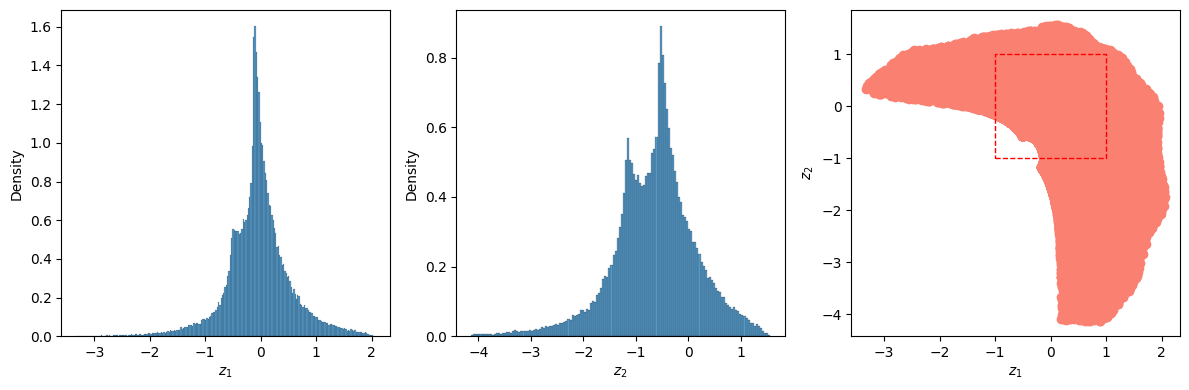
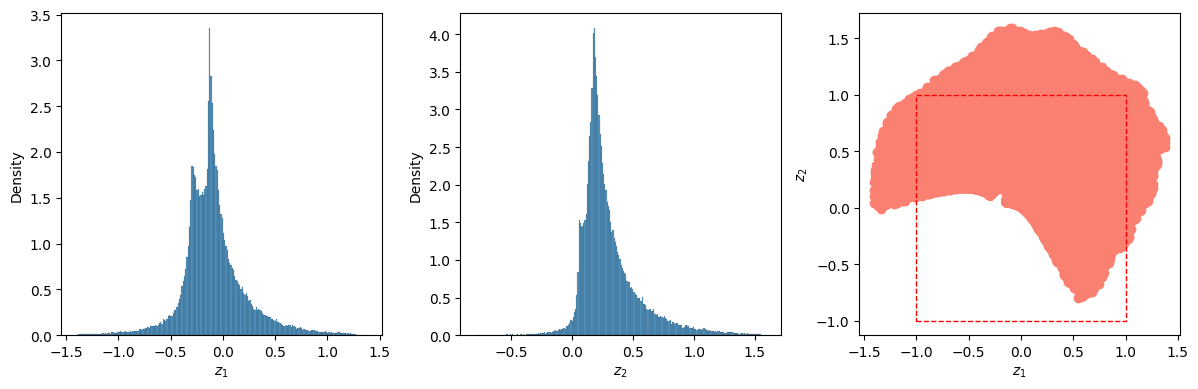
better content

diff --git a/_posts/2021-08-01-normal-distribution.md b/_posts/2021-08-01-normal-distribution.md
@@ -7,26 +7,29 @@ header:
 excerpt: "Autoencoders applied to mathematical functions."
 ---
 
-An *autoencoder* is a type of neural network that can learn efficient representations of data. The learning is unsupervised -- they try to reconstruct the inputs from the inputs themselves.
+An [autoencoder](https://en.wikipedia.org/wiki/Autoencoder) is a type of neural network that is trained to attempt to copy its inputs into its outputs. Given an input $X \in \mathbb{R}^n$ and two functions $f: \mathbb{R}^n \rightarrow \mathbb{R}^m$ and $g: \mathbb{R}^m \rightarrow \mathbb{R}^n$, they compute $\hat{X} = g(f(X))$ and aim for $Y \approx X$ by making a certain loss function $\mathcal{L}(X, \hat{X})$ as small as possible. We need $m \ll n$, as for $m \ge n$ one can simply take identity functions and perform a trivial transformation. 
 
-In its simplest version, it is composed by two neural networks stacked on the top of each other: an *encoder* which compresses the data to a smaller dimensional encoding, and a *decoder*, which tries to reconstruct the original data from this encoding.
+The function $f$ is called the *encoder* and $g$ the *decoder$, with $Z = f(X)$ the *code* in which a vector $X$ is transformed. The hope is that training will result in the codes $Z$ taking on useful properties, for example removing the noise on $X$ or perform a dimensionality reduction. The vectors $Z$ are often called the *latent* vectors.
 
-Most of the tutorials on autoencoders take images. Indeed, images are a very important application of generative machine learning models; however, here we will work with the reconstruction of a well-known mathematical function: the probability density function of the [normal distribution](https://en.wikipedia.org/wiki/Normal_distribution),
+The simplest kind of autoencoder has one layer, linear activations, and squared error loss,
 
 $$
-Φ(x; μ, σ) = \frac{1}{\sqrt{2 \pi} \sigma} \exp \left(-\frac{1}{2}\left( \frac{x - \mu}{\sigma} \right)^2 \right).
+\mathcal{L}(X, \hat{X}) = \|X - \hat{X}\|^2.
 $$
 
-This function has two parameters, $\mu$ and $\sigma$, apart from the input variable $x$. What we do is to create a grid of points $[x_1, x_2, \ldots, x_n]$ on which we will sample $Φ(x; μ, σ)$ for given values of $\mu$ and $\sigma$; this vector of $n$ points is the quantity that the autoencoder will operator upon. 
-Since there are only two parameters we should be able to capture it with an autoencoder with two latent variables, meaning that the encoder will project the $n$ points into 2 latent variables, while the decoder will do the opposite, moving from the two laten variables to $n$ points, idelly very close to the input ones.
+This computes $\hat{x} = U V X$, which is a linear function; if $m \ge n$ we can shoose $U$ and $V$ such that $U V = I$, which is not very interesting. If instead $m \ll n$ the encoder is reducing the dimensionality; the output $\hat{X}$ must lie in the column space of $U$. This is equivalent to [principal component analysis](https://en.wikipedia.org/wiki/Principal_component_analysis), or PCA.
 
-Our procedure is the following: 
-- the parameters $\mu$ and $\sigma$ are sampled, the first in $\mathcal{U}(-3, 3)$ and the second
-in $\mathcal{U}(0.5, 3)$;
-- for given values of $\mu$ and $\sigma$, we compute the values $y(x)$ on a (fixed) grid of points;
-- we train an autoencoder and check the quality of the fit.
+The idea of autoencoders is to go a step further and add nonlinearities to project the data not on a subspace, but on a nonlinear manifold. As such, they are more powerful than PCA for a given dimensionality.
 
-The following packages were used:
+In this article we look at autoencoders as tools for dimensionality reduction. Most of the tutorials on autoencoders do so on images, which are a very important application of generative machine learning models. Here, instead, we will work with mathematical functions and in particular with the well-known the probability density function of the [normal distribution](https://en.wikipedia.org/wiki/Normal_distribution),
+
+$$
+\varphi(x; μ, σ) = \frac{1}{\sigma \sqrt{2 \pi}} \exp \left(-\frac{1}{2}\left( \frac{x - \mu}{\sigma} \right)^2 \right).
+$$
+
+This function has two parameters, $\mu$ and $\sigma$, apart from the input variable $x$. What we do is to create a grid of points, fixed and identical for all values of the parameters. $[x_1, x_2, \ldots, x_n]$ on which we will sample $\varphi(x; μ, σ)$ for given values of $\mu$ and $\sigma$; this vector of $n$ points is the quantity that the autoencoder will operator upon. Ideally the autoencoder should learn how to represent this function on the provided grid.
+
+We start by creating the environment for the code:
 
 ```powershell
 conda create --name normal-distribution python==3.9 --no-default-packages -y
@@ -41,7 +44,7 @@ import matplotlib.pyplot as plt
 import numpy as np
 from scipy.optimize import minimize
 import seaborn as sns
-import torch; torch.manual_seed(0)
+import torch
 import torch.nn as nn
 import torch.nn.functional as F
 import torch.utils
@@ -49,7 +52,7 @@ from torch.utils.data import Dataset, DataLoader
 import torch.distributions
 ```
 
-We specify a `device` such that we can use CPUs, GPUs, or anything else supported by PyTorch.
+We specify a `device` such that we can use CPUs, GPUs, or anything else supported by PyTorch. The CPU will suffice given the small size of what we are doing.
 
 
 ```python
@@ -60,7 +63,7 @@ print(f"Using device {device}.")
     Using device cpu.
     
 
-The first phase is the generation of the training dataset. The dataset is composed by a vector sampling out target function, on a predefined grid, for some values of $\mu$ and $\sigma$ that are given by a random number generator.
+The first phase is the generation of the training dataset. The dataset is composed by a vector sampling out target function, on a predefined grid, for some values of $\mu$ and $\sigma$ that are given by a random number generator. We have to limit ourselves to a range of the parameters -- we assume $-3 \le \mu \le 3$ and $1/2 \le \sigma \le 3$, while the grid is a discretization of the $[-5, 5]$ interval.
 
 
 ```python
@@ -68,25 +71,22 @@ uniform_dist_μ = torch.distributions.uniform.Uniform(-3.0, 3.0)
 uniform_dist_σ = torch.distributions.uniform.Uniform(0.5, 3.0)
 ```
 
+We can easily generate as many entries for the training dataset as we want; 100'000 seems a reasonable choice and provides good results. The function $\varphi(x)$ is defined in `target_func`; a simple for loop fills the input dataset `X`.
+
 
 ```python
 num_inputs = 100_000
 num_points = 1_000
-```
 
-
-```python
 grid = torch.linspace(-5.0, 5.0, num_points)
-```
 
-
-```python
 def target_func(x, μ, σ):
     return 1 / np.sqrt(2 * np.pi) / σ * np.exp(-0.5 * (x - μ)**2 /  σ**2)
 ```
 
 
 ```python
+torch.manual_seed(0)
 X, Y = [], []
 for _ in range(num_inputs):
     μ = uniform_dist_μ.sample()
@@ -117,55 +117,67 @@ plt.ylabel('Φ(x)');
     
 
 
-The architecture of the encoder is quite simple: a classical sequential network with four layers and `tanh` activation function. The decoder is symmetric and quite simple as well. As we will see, this suffices for our goals so we won't try more complicated architectures.
+The architecture of the encoder is quite simple: a classical sequential network with four layers and `tanh` activation function.
 
 
 ```python
 class Encoder(nn.Module):
+
     def __init__(self, latent_dims, num_hidden):
-        super(Encoder, self).__init__()
+        super().__init__()
         self.linear1 = nn.Linear(num_points, num_hidden)
         self.linear2 = nn.Linear(num_hidden, num_hidden)
         self.linear3 = nn.Linear(num_hidden, num_hidden)
         self.linear4 = nn.Linear(num_hidden, latent_dims)
 
     def forward(self, x):
-        x = F.tanh(self.linear1(x))
-        x = F.tanh(self.linear2(x))
-        x = F.tanh(self.linear3(x))
+        x = torch.tanh(self.linear1(x))
+        x = torch.tanh(self.linear2(x))
+        x = torch.tanh(self.linear3(x))
         return self.linear4(x)
 ```
+
+ The decoder is symmetric and quite simple as well. As we will see, this suffices for our goals so we won't try more complicated architectures. Since the output is a probability density, we can use RELU to remove negative values.
 
 
 ```python
 class Decoder(nn.Module):
+
     def __init__(self, latent_dims, num_hidden):
-        super(Decoder, self).__init__()
+        super().__init__()
         self.linear1 = nn.Linear(latent_dims, num_hidden)
         self.linear2 = nn.Linear(num_hidden, num_hidden)
         self.linear3 = nn.Linear(num_hidden, num_hidden)
         self.linear4 = nn.Linear(num_hidden, num_points)
 
     def forward(self, z):
-        z = F.tanh(self.linear1(z))
-        z = F.tanh(self.linear2(z))
-        z = F.tanh(self.linear3(z))
-        return self.linear4(z)
+        z = torch.tanh(self.linear1(z))
+        z = torch.tanh(self.linear2(z))
+        z = torch.tanh(self.linear3(z))
+        return torch.relu(self.linear4(z))
 ```
 
-The autoencoder composed the encoder and the decoder, passing the input data through the former and then the latter.
+The autoencoder simply composes the encoder and the decoder, passing the input data through the former and then the latter.
 
 
 ```python
 class Autoencoder(nn.Module):
+
     def __init__(self, latent_dims, num_hidden):
-        super(Autoencoder, self).__init__()
+        super().__init__()
         self.encoder = Encoder(latent_dims, num_hidden)
         self.decoder = Decoder(latent_dims, num_hidden)
 
     def forward(self, x):
         z = self.encoder(x)
-        return self.decoder(z)
+        x_hat = self.decoder(z)
+        return x_hat
+
+
+def init_weights(m):
+    if isinstance(m, nn.Linear):
+        torch.nn.init.xavier_uniform_(m.weight)
+        m.bias.data.fill_(0.01)
 ```
 
 We are almost ready to do the training. A small wrapper to the `Dataset` class is used such that we can define a `DataLoader` and specify the batch size (here, 256) and shuffling.
@@ -173,6 +185,7 @@ We are almost ready to do the training. A small wrapper to the `Dataset` class i
 
 ```python
 class FuncDataset(Dataset):
+    
     def __init__(self, X):
         self.X = X
 
@@ -201,12 +214,11 @@ def train(autoencoder, data_loader, epochs, lr, gamma, print_every):
             x = x.to(device)  # to GPU if necessary
             optimizer.zero_grad()
             x_hat = autoencoder(x)
-            loss = ((x - x_hat)**2).sum()
+            loss = F.mse_loss(x, x_hat)
             loss.backward()
             optimizer.step()
             total_loss += loss.item()
         scheduler.step()
-        total_loss /= len(data_loader)
         if epoch % print_every == 0:
             print(f"Epoch: {epoch:3d}, lr: {last_lr[0]:.4e}, avg loss: {total_loss:.4f}")
         history.append(total_loss)
@@ -215,50 +227,41 @@ def train(autoencoder, data_loader, epochs, lr, gamma, print_every):
 
 
 ```python
+torch.manual_seed(0)
 latent_dims = 2
 autoencoder = Autoencoder(latent_dims=latent_dims, num_hidden=16).to(device)
-```
-
-
-```python
+autoencoder.apply(init_weights)
 history = train(autoencoder, data_loader, epochs=200, lr=1e-3, gamma=0.98, print_every=10)
 ```
 
-    Epoch:  10, lr: 8.3375e-04, avg loss: 37.3808
-    Epoch:  20, lr: 6.8123e-04, avg loss: 11.0866
-    Epoch:  30, lr: 5.5662e-04, avg loss: 6.4911
-    Epoch:  40, lr: 4.5480e-04, avg loss: 5.0347
-    Epoch:  50, lr: 3.7160e-04, avg loss: 4.1864
-    Epoch:  60, lr: 3.0363e-04, avg loss: 3.6390
-    Epoch:  70, lr: 2.4808e-04, avg loss: 3.2396
-    Epoch:  80, lr: 2.0270e-04, avg loss: 2.9316
-    Epoch:  90, lr: 1.6562e-04, avg loss: 2.6938
-    Epoch: 100, lr: 1.3533e-04, avg loss: 2.5059
-    Epoch: 110, lr: 1.1057e-04, avg loss: 2.3567
-    Epoch: 120, lr: 9.0345e-05, avg loss: 2.2413
-    Epoch: 130, lr: 7.3818e-05, avg loss: 2.1486
-    Epoch: 140, lr: 6.0315e-05, avg loss: 2.0738
-    Epoch: 150, lr: 4.9282e-05, avg loss: 2.0130
-    Epoch: 160, lr: 4.0267e-05, avg loss: 1.9625
-    Epoch: 170, lr: 3.2901e-05, avg loss: 1.9240
-    Epoch: 180, lr: 2.6882e-05, avg loss: 1.8926
-    Epoch: 190, lr: 2.1965e-05, avg loss: 1.8665
-    Epoch: 200, lr: 1.7947e-05, avg loss: 1.8446
+    Epoch:  10, lr: 8.3375e-04, avg loss: 2978.8102
+    Epoch:  20, lr: 6.8123e-04, avg loss: 1596.3543
+    Epoch:  30, lr: 5.5662e-04, avg loss: 1100.5824
+    Epoch:  40, lr: 4.5480e-04, avg loss: 905.0095
+    Epoch:  50, lr: 3.7160e-04, avg loss: 779.6560
+    Epoch:  60, lr: 3.0363e-04, avg loss: 696.5421
+    Epoch:  70, lr: 2.4808e-04, avg loss: 641.5026
+    Epoch:  80, lr: 2.0270e-04, avg loss: 600.6263
+    Epoch:  90, lr: 1.6562e-04, avg loss: 572.4385
+    Epoch: 100, lr: 1.3533e-04, avg loss: 546.6655
+    Epoch: 110, lr: 1.1057e-04, avg loss: 528.8666
+    Epoch: 120, lr: 9.0345e-05, avg loss: 513.7626
+    Epoch: 130, lr: 7.3818e-05, avg loss: 501.3278
+    Epoch: 140, lr: 6.0315e-05, avg loss: 491.5679
+    Epoch: 150, lr: 4.9282e-05, avg loss: 483.1427
+    Epoch: 160, lr: 4.0267e-05, avg loss: 476.8771
+    Epoch: 170, lr: 3.2901e-05, avg loss: 471.3284
+    Epoch: 180, lr: 2.6882e-05, avg loss: 466.7106
+    Epoch: 190, lr: 2.1965e-05, avg loss: 462.8381
+    Epoch: 200, lr: 1.7947e-05, avg loss: 459.6428
     
 
 
 ```python
 plt.semilogy(history)
 plt.xlabel('Epoch')
-plt.ylabel('Loss')
+plt.ylabel('Loss');
 ```
-
-
-
-
-    [<matplotlib.lines.Line2D at 0x24b75f05dc0>]
-
-
 
 
     
@@ -292,7 +295,28 @@ fig.tight_layout()
     
 
 
-It is now time to verify the quality of our decoder. We define new random values for $\mu$ and $\sigma$ and look for the latent variables that provide the best fit. The search is performed using SciPy's `minimize` and is extremely fast.
+We can also plot the reconstructed function over a few points in the $[-1, 1] \times [-1, 1]$ square of the picture above. We do this on a 10 by 10 grid, showing the result of the decoder for several values of $z_1$ and $z_2$ in the square region. In the zone that was not well covered in the trainig phase we expect poor results, and indeed the results aren't very meaningful there; otherise we can see our distributions changing with the two parameters. 
+
+
+```python
+n = 10
+fig, axes = plt.subplots(nrows=n, ncols=n, figsize=(8, 8), sharex=True, sharey=True)
+for i, c_1 in enumerate(np.linspace(-1, 1, n)):
+    for j, c_2 in enumerate(np.linspace(-1, 1, n)):
+        y = autoencoder.decoder(torch.FloatTensor([c_1, c_2]).to(device)).detach().cpu()
+        axes[n - 1 - j, i].plot(grid, y)
+        axes[n - 1 - j, i].axis('off')
+        axes[n - 1 - j, i].set_title(f'{c_1:.2f},{c_2:.2f}', fontsize=6)
+fig.tight_layout()
+```
+
+
+    
+![png](/assets/images/normal-distribution/normal-distribution-4.png)
+    
+
+
+Another thing that can be easily done is to search for the latent values that fit a given $X$. To that aim, we define new random values for $\mu$ and $\sigma$ and look for the latent variables that provide the best fit. The search is performed using SciPy's `minimize` and is extremely fast.
 
 
 ```python
@@ -313,18 +337,18 @@ res = minimize(func, [0.0, 0.0], method='Nelder-Mead')
 print(res)
 ```
 
-    Params for the test: μ=2.3721, σ=1.6699
+    Params for the test: μ=0.2404, σ=2.1482
     
            message: Optimization terminated successfully.
            success: True
             status: 0
-               fun: 0.04667074233293533
-                 x: [ 1.614e-01 -1.525e+00]
-               nit: 68
-              nfev: 133
-     final_simplex: (array([[ 1.614e-01, -1.525e+00],
-                           [ 1.614e-01, -1.525e+00],
-                           [ 1.614e-01, -1.525e+00]]), array([ 4.667e-02,  4.667e-02,  4.667e-02]))
+               fun: 0.040829580277204514
+                 x: [-1.353e-01  2.750e-01]
+               nit: 56
+              nfev: 106
+     final_simplex: (array([[-1.353e-01,  2.750e-01],
+                           [-1.353e-01,  2.749e-01],
+                           [-1.353e-01,  2.749e-01]]), array([ 4.083e-02,  4.083e-02,  4.083e-02]))
     
 
 Plotting the results shows quite a good agreement between the exact solution and the one produced by the decoder; increasing the size of the training dataset or the number of epoch would increase the quality.
@@ -333,7 +357,7 @@ Plotting the results shows quite a good agreement between the exact solution and
 ```python
 X_pred = autoencoder.decoder(torch.FloatTensor(res.x).to(device)).cpu().detach().numpy()
 fig, (ax0, ax1) = plt.subplots(figsize=(10, 4), ncols=2)
-ax0.plot(grid, X_target, label=f'α={α.item():.4f}, β={β.item():.4f}')
+ax0.plot(grid, X_target, label=f'μ={μ.item():.4f}, σ={σ.item():.4f}')
 ax0.plot(grid, X_pred, label=f'$z_1={res.x[0].item():.4f}, z_2={res.x[1].item():.4f}$')
 ax0.legend(loc='upper left')
 ax1.plot(grid, X_target - X_pred)
@@ -348,27 +372,8 @@ fig.tight_layout()
 
 
     
-![png](/assets/images/normal-distribution/normal-distribution-4.png)
-    
-
-
-And finally a nice example of what each latent variable represents by plotting, on a 10 by 10 grid, the result of the decoder for several values of $z_1$ and $z_2$, both ranging from -1 to 1. As we discussed above, the bottom left corner was not covered during the training and indeed the results aren't very meaningful; otherise we can see our distributions changing with the two parameters. 
-
-
-```python
-n = 10
-fig, axes = plt.subplots(nrows=n, ncols=n, figsize=(8, 8), sharex=True, sharey=True)
-for i, c_1 in enumerate(np.linspace(-1, 1, n)):
-    for j, c_2 in enumerate(np.linspace(-1, 1, n)):
-        y = autoencoder.decoder(torch.FloatTensor([c_1, c_2]).to(device)).detach().cpu()
-        axes[n - 1 - j, i].plot(grid, y)
-        axes[n - 1 - j, i].axis('off')
-        axes[n - 1 - j, i].set_title(f'{c_1:.2f},{c_2:.2f}', fontsize=6)
-fig.tight_layout()
-```
-
-
-    
 ![png](/assets/images/normal-distribution/normal-distribution-5.png)
     
 
+
+We conclude by noting that autoencoders are not generative models, so they don't define a distribution: the latent space they convert their inputs may not be continuous or allow for easy interpolation, especially with large number of latent dimensions. Choosing the correct number of latent dimensions is another problem as well -- here we knew it, in general this needs experimenting.
